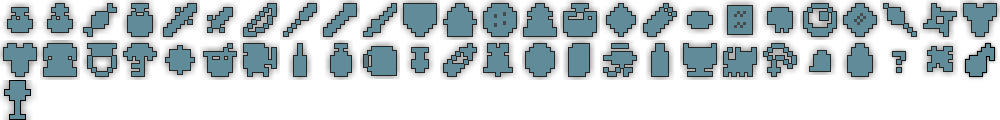
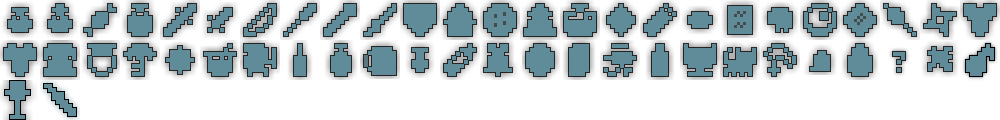
add sheaths to slotmap

Changed region(s): [[0.031, 0.675, 0.093, 1.0]]

diff --git a/lib/setuptools/src/setuptools.js b/lib/setuptools/src/setuptools.js
@@ -157,7 +157,7 @@ setuptools.config.corsURL = {
     default: 'https://chrome.google.com/webstore/detail/jakcodexmuledump-cors-ada/iimhkldbldnmapepklmeeinclchfkddd',
     firefox: 'https://addons.mozilla.org/en-US/firefox/addon/muledump-cors-adapter/'
 };
-setuptools.config.defaultSlotOrder = [42010, 42011, 42012, 1, 2, 3, 17, 8, 24, 5, 16, 12, 13, 18, 22, 15, 20, 11, 19, 21, 4, 23, 25, 27, 28, 29, 7, 6, 14, 9, 42013, 42014, 42015, 42016, 42017, 42018, 42019, 42020, 42021, 42022, 42023, 42024, 42025, 42026, 42027, 42028, 42029, 50000, 10, 26, 0];
+setuptools.config.defaultSlotOrder = [42010, 42011, 42012, 1, 2, 3, 17, 8, 24, 5, 16, 12, 13, 18, 22, 15, 20, 11, 19, 21, 4, 23, 25, 27, 28, 29, 30, 7, 6, 14, 9, 42013, 42014, 42015, 42016, 42017, 42018, 42019, 42020, 42021, 42022, 42023, 42024, 42025, 42026, 42027, 42028, 42029, 50000, 10, 26, 0];
 setuptools.config.devForcePoint = '';
 setuptools.config.disqualifiedItemIds = [587, 2505, 2503, 2509, 2320, 2496, 2501, 2499, 2512];
 setuptools.config.encryption = false;

diff --git a/lib/slotmap.js b/lib/slotmap.js
@@ -270,5 +270,6 @@ var itemsSlotTypeMap = {
     wakis: {slotType: 27, sheet: [920, 40]},
     lutes: {slotType: 28, sheet: [960, 40]},
     maces: {slotType: 29, sheet: [0, 80]},
+    sheaths: {slotType: 30, sheet: [40, 80]},
 };
 window.itemsSlotTypeMap = itemsSlotTypeMap;
